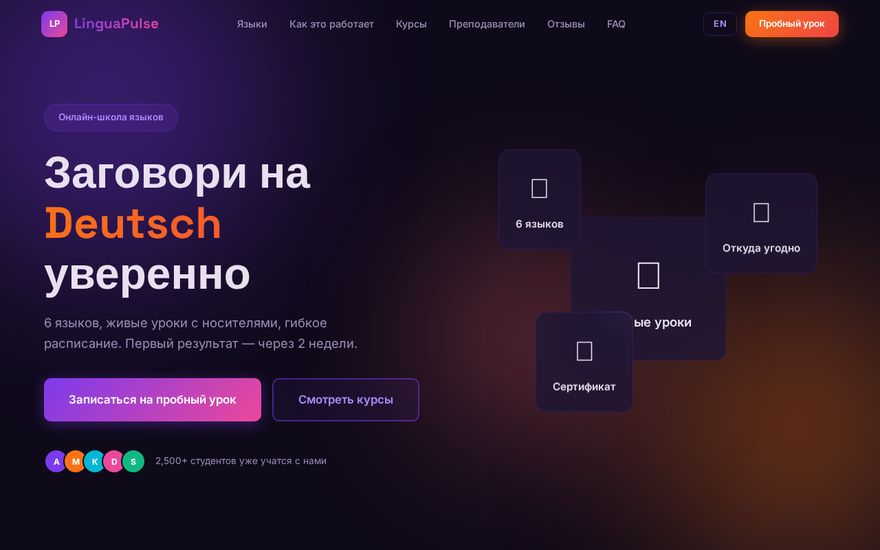
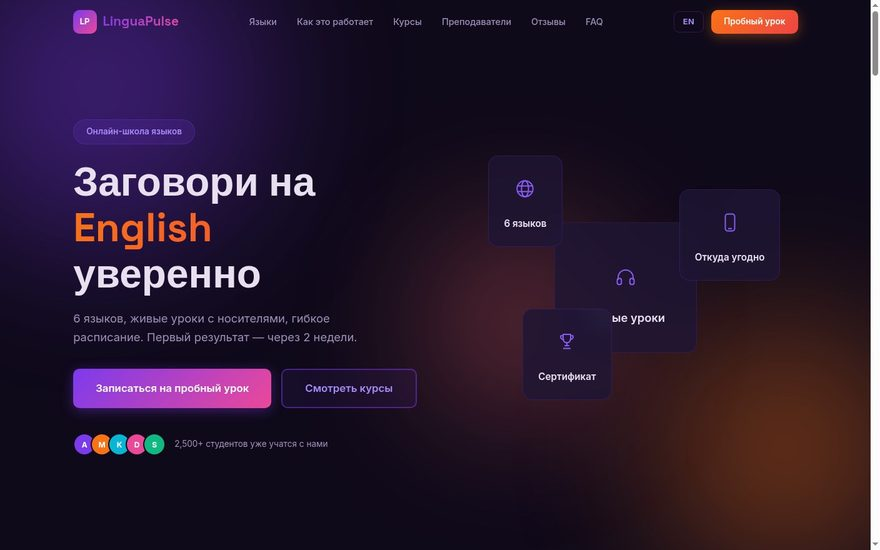
Кейсы: PAWS вместо Martin Moore, свежие скриншоты voyage/lingua, Mini App кейс на странице ботов

diff --git a/styles.css b/styles.css
@@ -1187,3 +1187,49 @@ main { padding: 0 clamp(10px, 1.2vw, 18px); }
   .stat span { max-width: 120px; }
   .chat__follow { padding-left: 0; }
 }
+
+/* ---------- кейс Mini App ---------- */
+.botcase--miniapp {
+  margin-top: clamp(10px, 1.2vw, 18px);
+  background: radial-gradient(110% 130% at 80% 16%, #1f2b33 0%, #1c1c1f 58%, #141416 100%);
+  min-height: 460px;
+}
+.botcase__mock--app { max-width: 340px; padding: 0; overflow: hidden; gap: 0; }
+.app__bar {
+  display: flex;
+  align-items: center;
+  justify-content: space-between;
+  padding: 14px 16px;
+  background: #232327;
+  border-bottom: 1px solid #2f2f35;
+  font-size: 14px;
+  color: #f2f4f8;
+}
+.app__back, .app__dots { color: #7c8190; font-size: 18px; }
+.app__grid {
+  display: grid;
+  grid-template-columns: 1fr 1fr;
+  gap: 10px;
+  padding: 16px;
+}
+.app__tile {
+  background: #232327;
+  border: 1px solid #2f2f35;
+  border-radius: 14px;
+  padding: 16px 14px;
+  display: flex;
+  flex-direction: column;
+  gap: 6px;
+}
+.app__tile b { color: #f2f4f8; font-size: 14px; font-weight: 600; }
+.app__tile span { color: #7c8190; font-size: 12px; }
+.app__cta {
+  margin: 0 16px 16px;
+  background: var(--green);
+  color: #11271d;
+  font-weight: 600;
+  font-size: 14px;
+  text-align: center;
+  padding: 14px;
+  border-radius: 12px;
+}

diff --git a/bots.html b/bots.html
@@ -196,6 +196,23 @@
         </div>
       </a>
     </div>
+
+    <a class="case case--wide botcase botcase--miniapp reveal" href="https://t.me/Pavel_digital_business_bot" target="_blank" rel="noopener">
+      <div class="botcase__mock botcase__mock--app">
+        <div class="app__bar"><span class="app__back">‹</span><b>Студия {P}</b><span class="app__dots">⋯</span></div>
+        <div class="app__grid">
+          <div class="app__tile"><b>Сайт</b><span>от 30 000 ₽</span></div>
+          <div class="app__tile"><b>Бот</b><span>от 5 000 ₽</span></div>
+          <div class="app__tile"><b>Парсер</b><span>под задачу</span></div>
+          <div class="app__tile"><b>Воронка</b><span>под ключ</span></div>
+        </div>
+        <div class="app__cta">Оставить заявку</div>
+      </div>
+      <div class="case__text">
+        <p class="case__note">Telegram Mini App: каталог услуг и заявки прямо внутри мессенджера, бэкенд на Vercel</p>
+        <p class="case__title">Mini App визитки</p>
+      </div>
+    </a>
   </section>
 
   <!-- ===== Q&A ===== -->

diff --git a/index.html b/index.html
@@ -302,8 +302,8 @@
         <img src="shots/venom-ink.jpg" alt="Тату-студия VENOM INK" loading="lazy"><span>Venom Ink</span>
         <em class="scatter__tags"><i>UX-исследования</i><i>Разработка сайта</i></em>
       </a>
-      <a class="scatter__card" href="https://hohotyn156782-bit.github.io/pet-shop/" target="_blank" rel="noopener" style="--rot:12deg;--x:17vw;--y:-20px">
-        <img src="shots/petshop.jpg" alt="Зоомагазин Martin Moore" loading="lazy"><span>Martin Moore</span>
+      <a class="scatter__card" href="https://paws-drab-delta.vercel.app" target="_blank" rel="noopener" style="--rot:12deg;--x:17vw;--y:-20px">
+        <img src="shots/paws.jpg" alt="Премиум зоомагазин PAWS" loading="lazy"><span>PAWS</span>
       </a>
       <a class="scatter__card" href="https://hohotyn156782-bit.github.io/nova-studio/" target="_blank" rel="noopener" style="--rot:-11deg;--x:34vw;--y:36px">
         <img src="shots/nova.jpg" alt="NOVA Studio" loading="lazy"><span>Nova Studio</span>